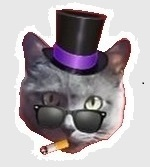
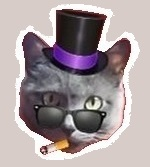
Pagina Index

diff --git a/src/components/Homecarrusel.jsx b/src/components/Homecarrusel.jsx
@@ -1,0 +1,59 @@
+import { useState } from "react";
+import "../styles/homecarrusel.css";
+
+import img0 from "../assets/Mix.jpg";
+import img1 from "../assets/Entradas.jpg";
+import img2 from "../assets/Salidas.jpg";
+import img3 from "../assets/Pagos.jpg";
+import img4 from "../assets/Calendario.jpg";
+import img5 from "../assets/Login2.jpg";
+import img6 from "../assets/Login2.jpg";
+
+function Homecarrusel() {
+  const slides = [
+    { img: img0, titulo: "Bienvenido a tu Asistente Financiero Personal", texto: "Tu herramienta para gestionar tus finanzas de manera fácil y eficiente. Con nuestro asistente financiero, podrás llevar un control detallado de tus ingresos, gastos y pagos, todo en un solo lugar." },
+    { img: img1, titulo: "Entradas", texto: "El usuario asigna valores a las distintas variables creadas, se realiza operaciones como sumatorias, promedios e historial de ingresos totales o discriminados por cada usuario configurado. Adicionalmente el usuario podrá almacenar comprobantes de ingresos." },
+    { img: img2, titulo: "Salidas", texto: "El usuario asigna valores a las distintas variables creadas, se realiza operaciones como sumatorias, promedios e historial de pagos totales o discriminados por cada usuario configurado. Adicionalmente el usuario podrá almacenar comprobantes de pagos" },
+    { img: img3, titulo: "Pagos", texto: "Modulo ideado para que el usuario tenga una herramienta donde pueda encontrar links y accesos directos de las páginas web y banca virtual, donde puedan realizar el pago de las distintas obligaciones." },
+    { img: img4, titulo: "Calendario", texto: "Modulo asignado para la configuración de alertas para próximos pagos de servicios mensuales o eventuales" },
+    { img: img5, titulo: "Registro de Usuarios", texto: "Modulo de control para usuarios ADMINISTRADORES. En esta modulo se registran los usuarios que tendran acceso a la aplicacion. Se registra sus datos basicos y perfil de acceso" },
+    { img: img6, titulo: "Bases de Datos", texto: "Modulo de control para usuarios ADMINISTRADORES. Realiza consultas y descargas de bases de datos individuales y generales" }
+  ];
+  const [index, setIndex] = useState(0);
+  const prevSlide = () => {
+    setIndex(index === 0 ? slides.length - 1 : index - 1);
+  };
+  const nextSlide = () => {
+    setIndex(index === slides.length - 1 ? 0 : index + 1);
+  };
+  return (
+    <><p /><div className="carousel">
+      <button className="btn prev" onClick={prevSlide}>❮</button>
+        {/* CONTENIDO EN COLUMNAS */}
+        <div className="slide-content">
+          {/* TEXTO */}
+          <div className="col text-col">
+            <h2>{slides[index].titulo}</h2>
+            <p>{slides[index].texto}</p>
+          </div>
+          {/* IMAGEN */}
+          <div className="col image-col">
+            <img src={slides[index].img} alt="carousel" className="image" />
+          </div>
+        </div>
+      <button className="btn next" onClick={nextSlide}>❯</button>
+      <div className="dots">
+        {slides.map((_, i) => (
+          <span
+            key={i}
+            className={i === index ? "dot active" : "dot"}
+            onClick={() => setIndex(i)}
+          ></span>
+        ))}
+      </div>
+
+    </div></>
+  );
+}
+
+export default Homecarrusel;

diff --git a/src/styles/homecarrusel.css b/src/styles/homecarrusel.css
@@ -1,0 +1,14 @@
+.slide-content {
+  display: flex;
+  align-items: center;
+  justify-content: center;
+  gap: 30px;
+}
+
+.image-col {
+  flex: 1;
+}
+
+.text-col {
+  flex: 3;
+}

diff --git a/src/pages/Index.jsx b/src/pages/Index.jsx
@@ -1,14 +1,11 @@
-import LogoMix1 from "../assets/Mix.jpg";
-import "../styles/login.css";
+
+import Carousel from "../components/Carousel";
+import "../styles/index.css";
 
 function Index() {
   return (
     <>
-      <div className="logo-container">
-        <p>
-          <img src={LogoMix1} alt="Logo" className="LogoMix1" />
-        </p>
-      </div>
+      <Carousel/>
     </>
   );
 }

diff --git a/src/styles/index.css b/src/styles/index.css
@@ -1,0 +1,11 @@
+.logoMix2 {
+  width: 50px;
+  height: 50px;
+}
+.carousel-slide {
+display: flex;
+grid-template-columns: 1fr 1fr;
+gap: 100px;
+align-items: center;
+padding: 48px 300px ;
+}

diff --git a/src/components/Carousel.jsx b/src/components/Carousel.jsx
@@ -23,11 +23,11 @@ function Carousel() {
   return (
     <div className="carousel">
       <button className="btn prev" onClick={prevSlide}>❮</button>
-      <div className="image-container">
-        <h2>{slides[index].titulo}</h2>
-        <img src={slides[index].img} alt="carousel" className="image" />
-        <p>{slides[index].texto}</p>
-      </div>
+        <div className="image-container">
+            <h2>{slides[index].titulo}</h2>
+            <img src={slides[index].img} alt="carousel" className="image" />
+            <p>{slides[index].texto}</p>
+        </div>
         <button className="btn next" onClick={nextSlide}>❯</button>
       <div className="dots">
         {slides.map((_, i) => (

diff --git a/src/pages/Home.jsx b/src/pages/Home.jsx
@@ -1,11 +1,11 @@
 
-import Carousel from "../components/Carousel";
-import "../styles/home.css";
+import Homecarrusel from "../components/Homecarrusel";
+import "../styles/homecarrusel.css";
 
 function Home() {
   return (
       <>
-        <Carousel />
+        <Homecarrusel />
     </>
   );
 }

diff --git a/src/components/Button.jsx b/src/components/Button.jsx
@@ -1,4 +1,4 @@
 function Button({text}) {
-    return <button className="btn">{text}</button>;
+    return <button className="button">{text}</button>;
 }
 export default Button;